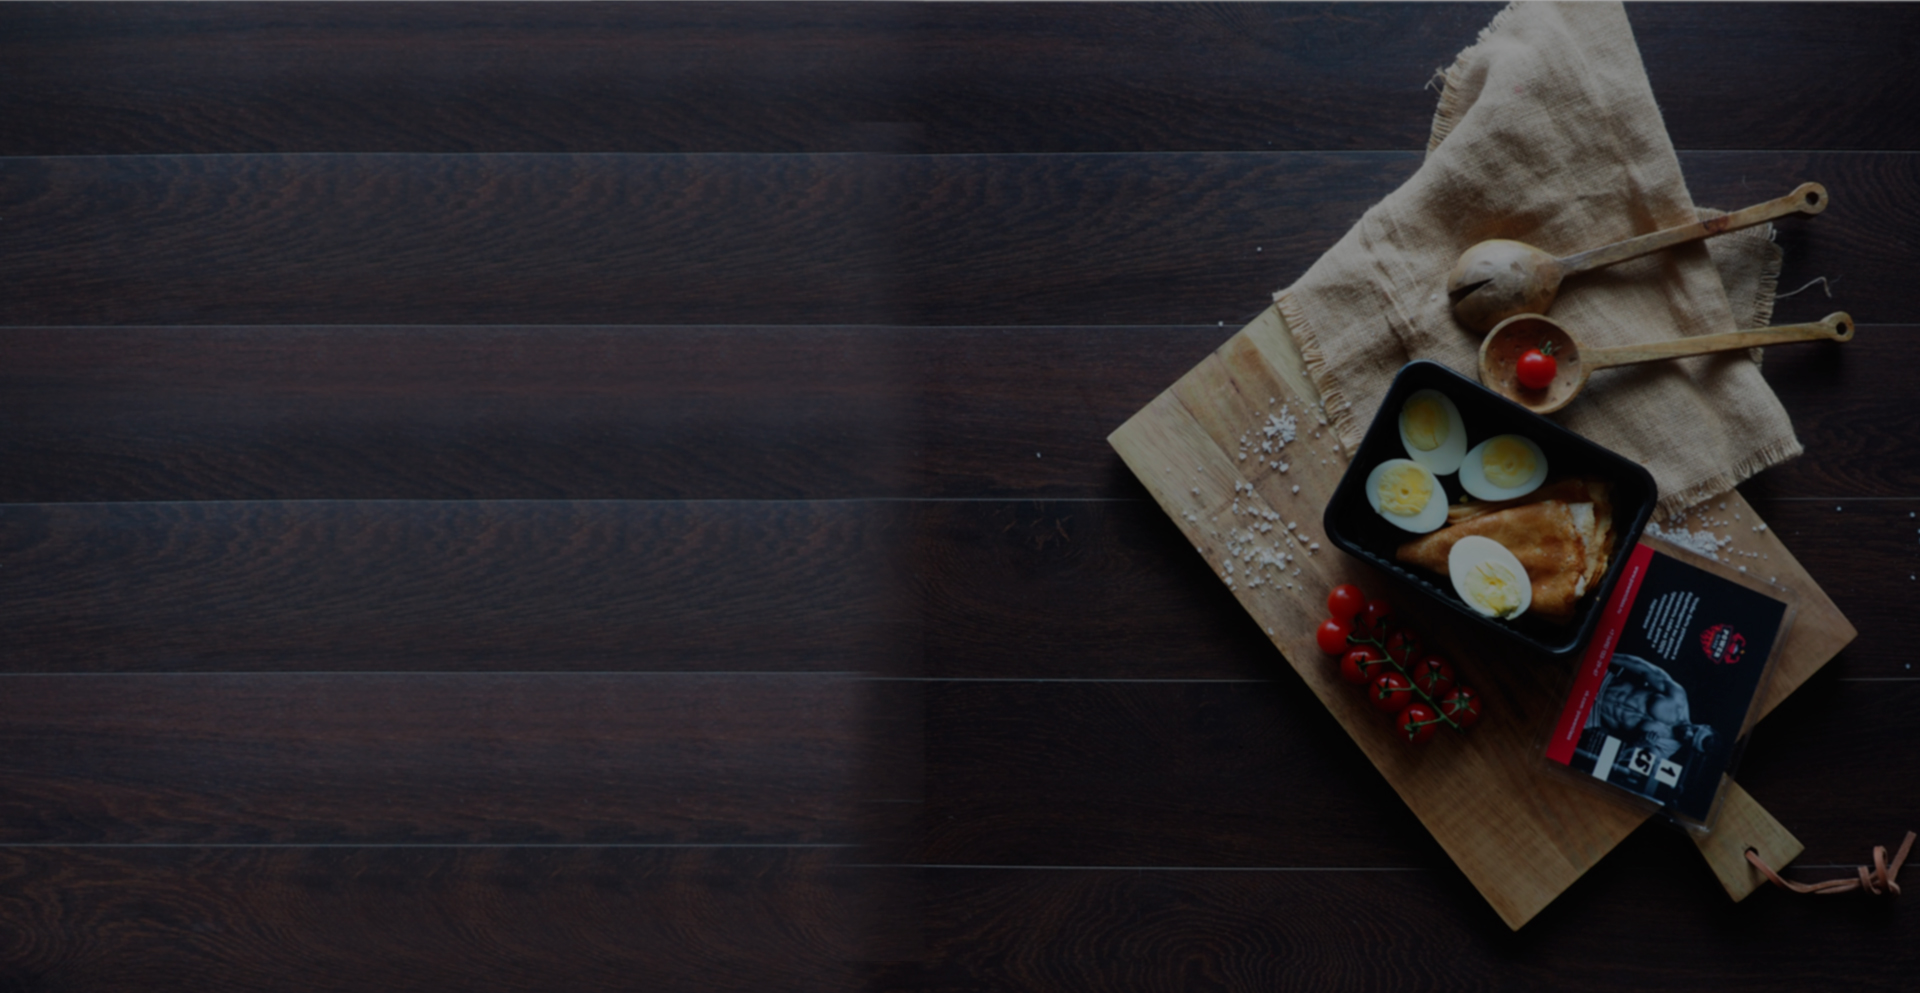
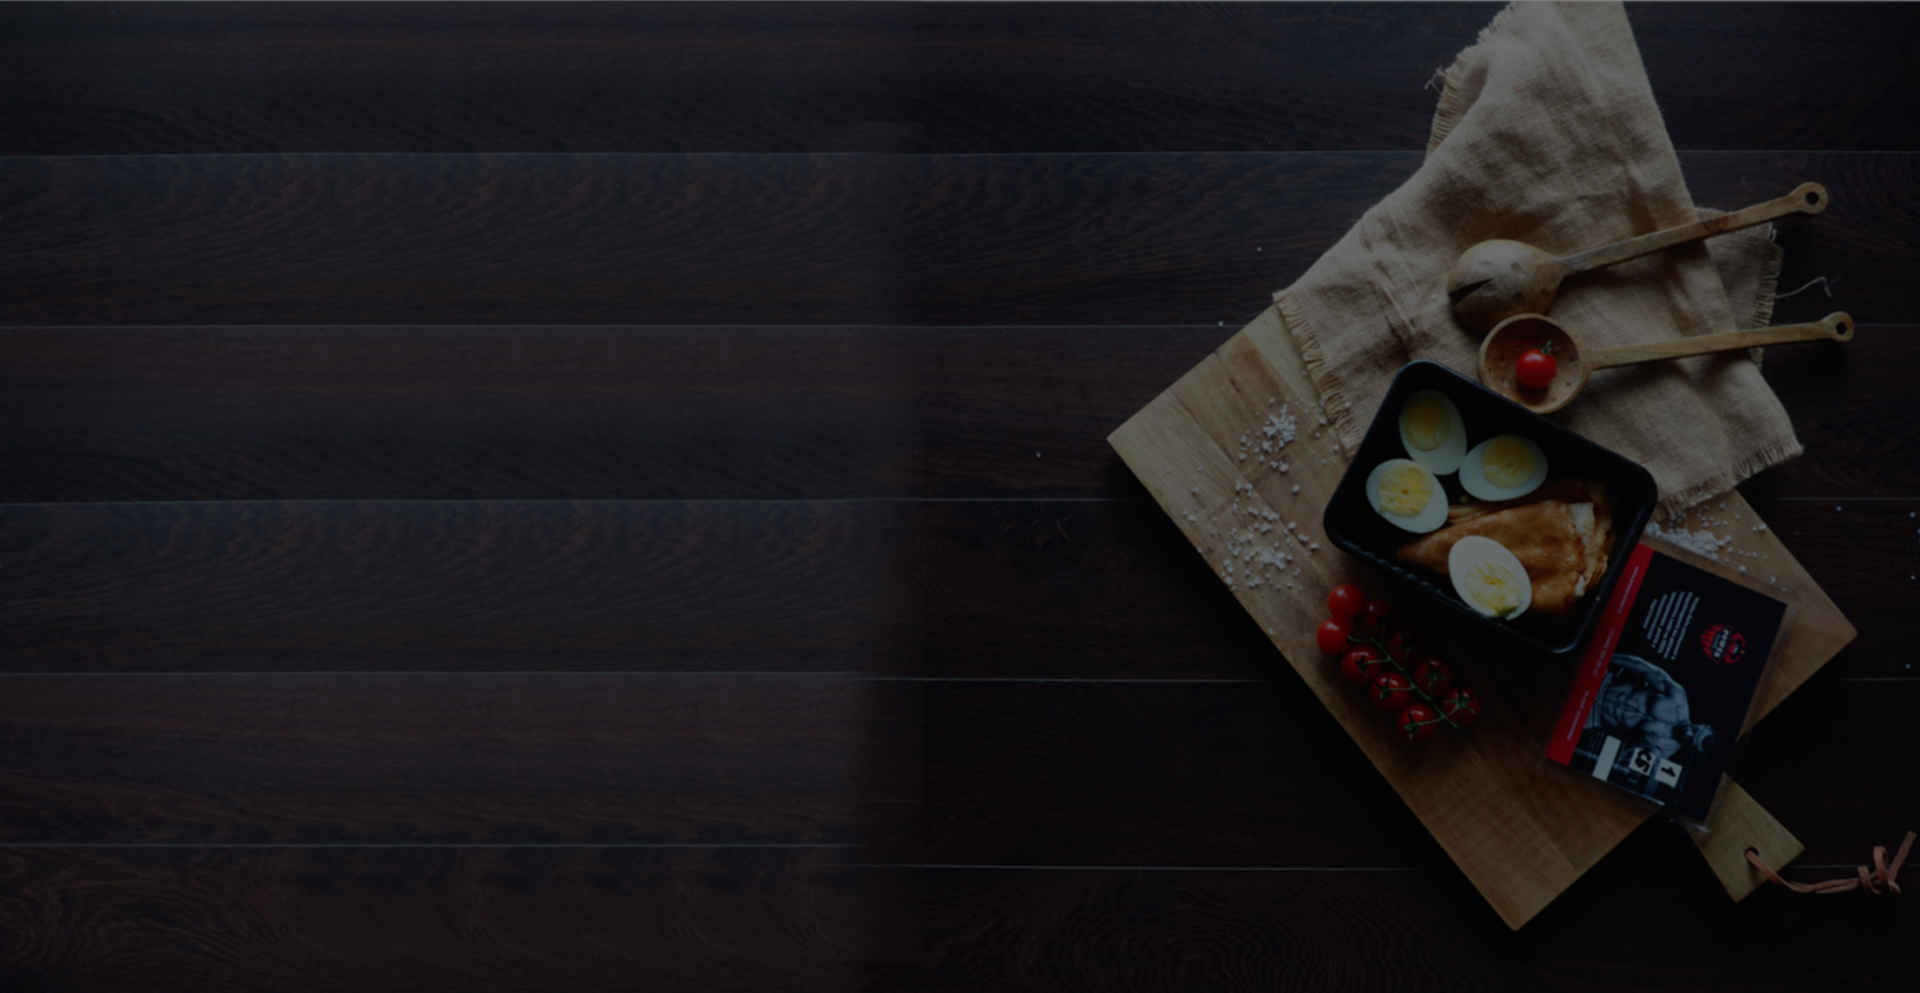
fixed

Changed region(s): [[0.5625, 0.0, 0.9375, 0.8117], [0.9375, 0.5932, 0.9688, 0.6244], [0.9062, 0.8429, 0.9375, 0.8741]]

diff --git a/css/style-de.css b/css/style-de.css
@@ -1,5 +1,6 @@
 .questions, .dd-want-view { background: url(../img/questions.jpg) top center/cover; height: 521px; padding: 83px 0 25px !important; font-family: 'Open Sans', arial, sans-serif; }
 .questions .form-wrap, .dd-want-view .form-wrap { padding: 15px 0 20px; }
+.questions .second, .dd-want-view .second { display: none; }
 .questions .phone, .dd-want-view .phone { font-size: 36px; color: #212121; font-weight: 700; display: block; margin-top: -8px; }
 .questions .input-wrap, .dd-want-view .input-wrap { display: inline-block; background: #fff; margin-right: -39px; padding-right: 28px; border-radius: 26px; margin-bottom: 15px; }
 .questions .input-wrap input, .dd-want-view .input-wrap input { background: none; box-shadow: none; border-top: none; }
@@ -12,7 +13,7 @@
 .dd-want-view .descr { font-size: 24px; color: #212121; font-weight: 900; display: block; padding: 10px 0 20px; }
 .dd-want-view .descr b { display: block; }
 .dd-want-view .descr i { color: #e53935; }
-.dd-want-view .input-wrap { background: #e6e6e6; border-top: 2px solid #cdcdcd; }
+.dd-want-view .input-wrap { background: #e6e6e6; border-top: 2px solid #cdcdcd; border-radius: 26px 0 0 26px; margin-right: -20px; }
 
 .testimonials { font-family: 'Open Sans', arial, sans-serif; padding: 50px 0 70px; background: #e9e9e9; }
 .testimonials__head { text-align: center; padding: 10px 0 40px; }
@@ -141,7 +142,7 @@
 
 .tab:last-child.active { background-image: url("../img/tab-bg-last.png"); }
 
-.tab-content { background: rgba(0, 0, 0, 0.2); padding: 27px 10px; -webkit-box-shadow: inset 0px 0px 5px 2px rgba(0, 0, 0, 0.3); -moz-box-shadow: inset 0px 0px 5px 2px rgba(0, 0, 0, 0.3); box-shadow: inset 0px 0px 5px 2px rgba(0, 0, 0, 0.3); }
+.tab-content { background: rgba(0, 0, 0, 0.33); padding: 27px 10px; -webkit-box-shadow: inset 0px 0px 5px 2px rgba(0, 0, 0, 0.18); -moz-box-shadow: inset 0px 0px 5px 2px rgba(0, 0, 0, 0.18); box-shadow: inset 0px 0px 5px 2px rgba(0, 0, 0, 0.18); }
 .tab-content .price i { font-size: 36px; color: #e53935; font-weight: 900; }
 .tab-content .price b { font-size: 14px !important; }
 .tab-content .price span { display: block; }
@@ -161,16 +162,18 @@
 @media only screen and (max-width: 1200px) { .shtraf .end__item { padding: 0 15px; }
   .shtraf .delivery .input--home { margin: 0 13px 15px 0; }
   .tab span { line-height: 39px; } }
-@media only screen and (max-width: 1000px) { .shtraf-item { display: none; }
+@media only screen and (max-width: 1000px) { .descr .second { display: inline; }
+  .descr .first { display: none; }
+  .shtraf-item { display: none; }
   .shtraf-mini { display: block; }
-  .questions h2, .dd-want-view h2, .testimonials h2 { font-size: 20px; }
+  .questions h2, .dd-want-view h2 { font-size: 24px; }
   .testimonials .item { padding: 0 10px; }
-  .dd-want-view { background: url(../img/want.jpg) bottom left no-repeat; }
+  .dd-want-view { background: url(../img/want.jpg) bottom left/cover no-repeat; }
   .dd-want-view h2 { line-height: 1.3; width: 240px; }
   .dd-want-view .in { float: none; width: 70%; }
   .dd-want-view .descr { font-size: 20px; width: 240px; }
   .dd-want-view p { display: none; }
-  .dd-want-view .input-wrap { margin-right: 0; width: 186px; display: block; }
+  .dd-want-view .input-wrap { margin-right: 0; width: 186px; display: block; border-radius: 26px; }
   .dd-want-view .input-wrap .dd-input { font-size: 14px; padding: 0 15px; height: 43px; }
   .dd-want-view .dd-submit { height: 43px; width: 186px; font-size: 14px; line-height: 43px; }
   .tarif h2 { font-size: 20px; }
@@ -209,7 +212,6 @@
   .testimonials p { display: none; }
   .testimonials .owl-prev, .testimonials .owl-next { display: block; }
   .testimonials .owl-dots { display: block !important; }
-  .dd-want-view { background: url(../img/want-mini.jpg) right bottom 40px no-repeat; padding-bottom: 40px; }
   .dd-want-view .descr { font-size: 14px; }
   .questions { background: url(../img/questions-mini.jpg) no-repeat; background-size: cover; text-align: center; }
   .questions .in { float: none; max-width: 320px; width: 100%; color: #fff; padding: 0 12px; margin: 0 auto; }
@@ -218,6 +220,7 @@
   .questions p { color: #fff; text-align: center; font-weight: 300; }
   .questions p span { display: inline-block; }
   .questions .phone { font-size: 30px; color: #fff; } }
+@media only screen and (max-width: 700px) { .dd-want-view { background: url(../img/want-mini.jpg) right bottom 40px no-repeat; padding-bottom: 40px; margin: 0 auto; max-width: 480px; width: 100%; } }
 @media only screen and (max-width: 400px) { .testimonials .owl-prev { left: -10px; }
   .testimonials .owl-next { right: -10px; }
   .testimonials .owl-dot { width: 6px; height: 6px; margin: 3px 2px 3px 3px; } }

diff --git a/css/style-de.scss b/css/style-de.scss
@@ -6,6 +6,9 @@
 	.form-wrap{
 		padding: 15px 0 20px;
 	}
+	.second{
+		display: none;
+	}
 	.phone{
 		font-size: 36px;
 		color: #212121;
@@ -60,6 +63,8 @@
 	.input-wrap{
 		background: #e6e6e6;
 		border-top: 2px solid #cdcdcd;
+		border-radius: 26px 0 0 26px;
+		margin-right: -20px;
 	}
 }
 .testimonials{
@@ -689,11 +694,11 @@
 	background-image: url("../img/tab-bg-last.png");
 }
 .tab-content{
-	background: rgba(0,0,0,0.2);
+	background: rgba(0,0,0,0.33);
 	padding: 27px 10px;
-	-webkit-box-shadow: inset 0px 0px 5px 2px rgba(0,0,0,0.3);
-	-moz-box-shadow: inset 0px 0px 5px 2px rgba(0,0,0,0.3);
-	box-shadow: inset 0px 0px 5px 2px rgba(0,0,0,0.3);
+	-webkit-box-shadow: inset 0px 0px 5px 2px rgba(0,0,0,0.18);
+	-moz-box-shadow: inset 0px 0px 5px 2px rgba(0,0,0,0.18);
+	box-shadow: inset 0px 0px 5px 2px rgba(0,0,0,0.18);
 	.price{
 		i{
 			font-size: 36px;
@@ -777,15 +782,23 @@
 	}
 }
 @media only screen and (max-width : 1000px) {
+	.descr{
+		.second{
+		display: inline;
+		}
+		.first{
+			display: none;
+		}
+	}
 	.shtraf-item{
 		display: none;
 	}
 	.shtraf-mini{
 		display: block;
 	}
-	.questions, .dd-want-view, .testimonials{
+	.questions, .dd-want-view{
 		h2{
-			font-size: 20px;
+			font-size: 24px;
 		}
 	}
 	.testimonials{
@@ -794,7 +807,7 @@
 		}
 	}
 	.dd-want-view{
-		background: url(../img/want.jpg) bottom left no-repeat;
+		background: url(../img/want.jpg) bottom left/cover no-repeat;
 		h2{
 			line-height: 1.3;
 			width: 240px;
@@ -814,6 +827,7 @@
 			margin-right: 0;
 			width: 186px;
 			display: block;
+			border-radius: 26px;
 			.dd-input{
 				font-size: 14px;
 				padding: 0 15px;
@@ -992,8 +1006,6 @@
 		}
 	}
 	.dd-want-view{
-		background: url(../img/want-mini.jpg) right bottom 40px no-repeat;
-		padding-bottom: 40px;
 		.descr{
 			font-size: 14px;
 		}
@@ -1036,6 +1048,15 @@
 			font-size: 30px;
 			color: #fff;
 		}
+	}
+}
+@media only screen and (max-width : 700px) {
+	.dd-want-view{
+		background: url(../img/want-mini.jpg) right bottom 40px no-repeat;
+		padding-bottom: 40px;
+		margin: 0 auto;
+		max-width: 480px;
+		width: 100%;
 	}
 }
 @media only screen and (max-width : 400px) {

diff --git a/includes/shtraf.php b/includes/shtraf.php
@@ -76,15 +76,15 @@
 						<div class="btn-wrap">
 							<div class="input-wrap">
 								<span>Возраст:</span>
-								<input type="number" value="25"  min="12" max="99" class="input-number" id="jsage" style="width:88px">
+								<input type="number" placeholder="25"  min="12" max="99" class="input-number" id="jsage" style="width:88px">
 							</div>
 							<div class="input-wrap">
 								<span>Рост:</span>
-								<input type="number" value="175" min="50" max="300" class="input-number" style="width:88px" id="jsrost">
+								<input type="number" placeholder="175" min="50" max="300" class="input-number" style="width:88px" id="jsrost">
 							</div>
 							<div class="input-wrap">
 								<span>Вес:</span>
-								<input type="number" value="75" min="30" max="300" class="input-number" style="width:88px" id="jsmass">
+								<input type="number" placeholder="75" min="30" max="300" class="input-number" style="width:88px" id="jsmass">
 							</div>
 							<button class="shtraf__btn shtraf__btn--black shtraf__btn--next">Далее</button>
 						</div>
@@ -387,9 +387,9 @@
 								</select>
 							</div>
 							<div class="select-wrap clearfix">
-								<input type="number" value="25" min="12" max="99" class="input-mini" placeholder="Возраст" id="agemob">
-								<input type="number" value="175" min="50" max="300" class="input-mini border-red" placeholder="Рост" id="rostmob">
-								<input type="number" value="75" min="30" max="300" class="input-mini" placeholder="Вес" id="massmob">
+								<input type="number" value="" min="12" max="99" class="input-mini" placeholder="25" id="agemob">
+								<input type="number" value="" min="50" max="300" class="input-mini border-red" placeholder="175" id="rostmob">
+								<input type="number" value="" min="30" max="300" class="input-mini" placeholder="75" id="massmob">
 							</div>
 							<div class="select-wrap">
 								<select class="jsselected2">

diff --git a/shtraf-demo.php b/shtraf-demo.php
@@ -76,15 +76,15 @@
 						<div class="btn-wrap">
 							<div class="input-wrap">
 								<span>Возраст:</span>
-								<input type="number" value="25"  min="12" max="99" class="input-number" id="jsage" style="width:88px">
+								<input type="number" placeholder="25"  min="12" max="99" class="input-number" id="jsage" style="width:88px">
 							</div>
 							<div class="input-wrap">
 								<span>Рост:</span>
-								<input type="number" value="175" min="50" max="300" class="input-number" style="width:88px" id="jsrost">
+								<input type="number" placeholder="175" min="50" max="300" class="input-number" style="width:88px" id="jsrost">
 							</div>
 							<div class="input-wrap">
 								<span>Вес:</span>
-								<input type="number" value="75" min="30" max="300" class="input-number" style="width:88px" id="jsmass">
+								<input type="number" placeholder="75" min="30" max="300" class="input-number" style="width:88px" id="jsmass">
 							</div>
 							<button class="shtraf__btn shtraf__btn--black shtraf__btn--next">Далее</button>
 						</div>
@@ -364,9 +364,9 @@
 								</select>
 							</div>
 							<div class="select-wrap clearfix">
-								<input type="number" value="25" min="12" max="99" class="input-mini" placeholder="Возраст" id="agemob">
-								<input type="number" value="175" min="50" max="300" class="input-mini border-red" placeholder="Рост" id="rostmob">
-								<input type="number" value="75" min="30" max="300" class="input-mini" placeholder="Вес" id="massmob">
+								<input type="number" placeholder="25" min="12" max="99" class="input-mini" id="agemob">
+								<input type="number" placeholder="175" min="50" max="300" class="input-mini border-red" id="rostmob">
+								<input type="number" placeholder="75" min="30" max="300" class="input-mini" id="massmob">
 							</div>
 							<div class="select-wrap">
 								<select class="jsselected2">

diff --git a/includes/tarif.php b/includes/tarif.php
@@ -15,7 +15,7 @@
 						</div>
 						<div id="tb2" class="tab tab-1">
 							<div class="tab-in">
-								<span><b>Фит плюс</b></span><i><em><strong>1 700</strong></em> ккал/день</i>
+								<span><b>Фит Плюс</b></span><i><em><strong>1 700</strong></em> ккал/день</i>
 							</div>
 						</div>
 						<div id="tb3" class="tab tab-2 active">
@@ -25,7 +25,7 @@
 						</div>
 						<div id="tb4" class="tab tab-3">
 							<div class="tab-in">
-								<span><b>Спорт плюс</b></span><i><em><strong>3 500</strong></em> ккал/день</i>
+								<span><b>Спорт Плюс</b></span><i><em><strong>3 500</strong></em> ккал/день</i>
 							</div>
 						</div>
 					</div>

diff --git a/includes/want.php b/includes/want.php
@@ -4,7 +4,7 @@
 			<div class="col-md-12">
 				<div class="in">
 					<h2>Не хотите заказывать сразу на неделю?</h2>
-					<span class="descr">Попробуйте «пробный тариф» <b>всего за <i>1199 рублей.</i></b></span>
+					<span class="descr">Попробуйте «пробный <em class="first">тариф</em><em class="second">день</em>» <b>всего за <i>1199 рублей.</i></b></span>
 					<p>Твой ПП рацион из 5 приемов пищи на 1 день Доставка по Москве бесплатно</p>
 					<div class="form-wrap">
 						<form action="#">

diff --git a/includes/questions.php b/includes/questions.php
@@ -4,7 +4,7 @@
 			<div class="col-md-12">
 				<div class="in">
 					<h2>Остались вопросы?</h2>
-					<p>Оставьте ваш номер телефона и наш <span>менеджер свяжется с вами</span> <span>в течении 15 мин.</span></p>
+					<p>Оставьте ваш номер телефона и наш <span>менеджер свяжется с вами</span> <span>в течении <em class="first">15</em><em class="second">30</em> мин.</span></p>
 					<div class="form-wrap">
 						<form action="#">
 							<div class="input-wrap">
